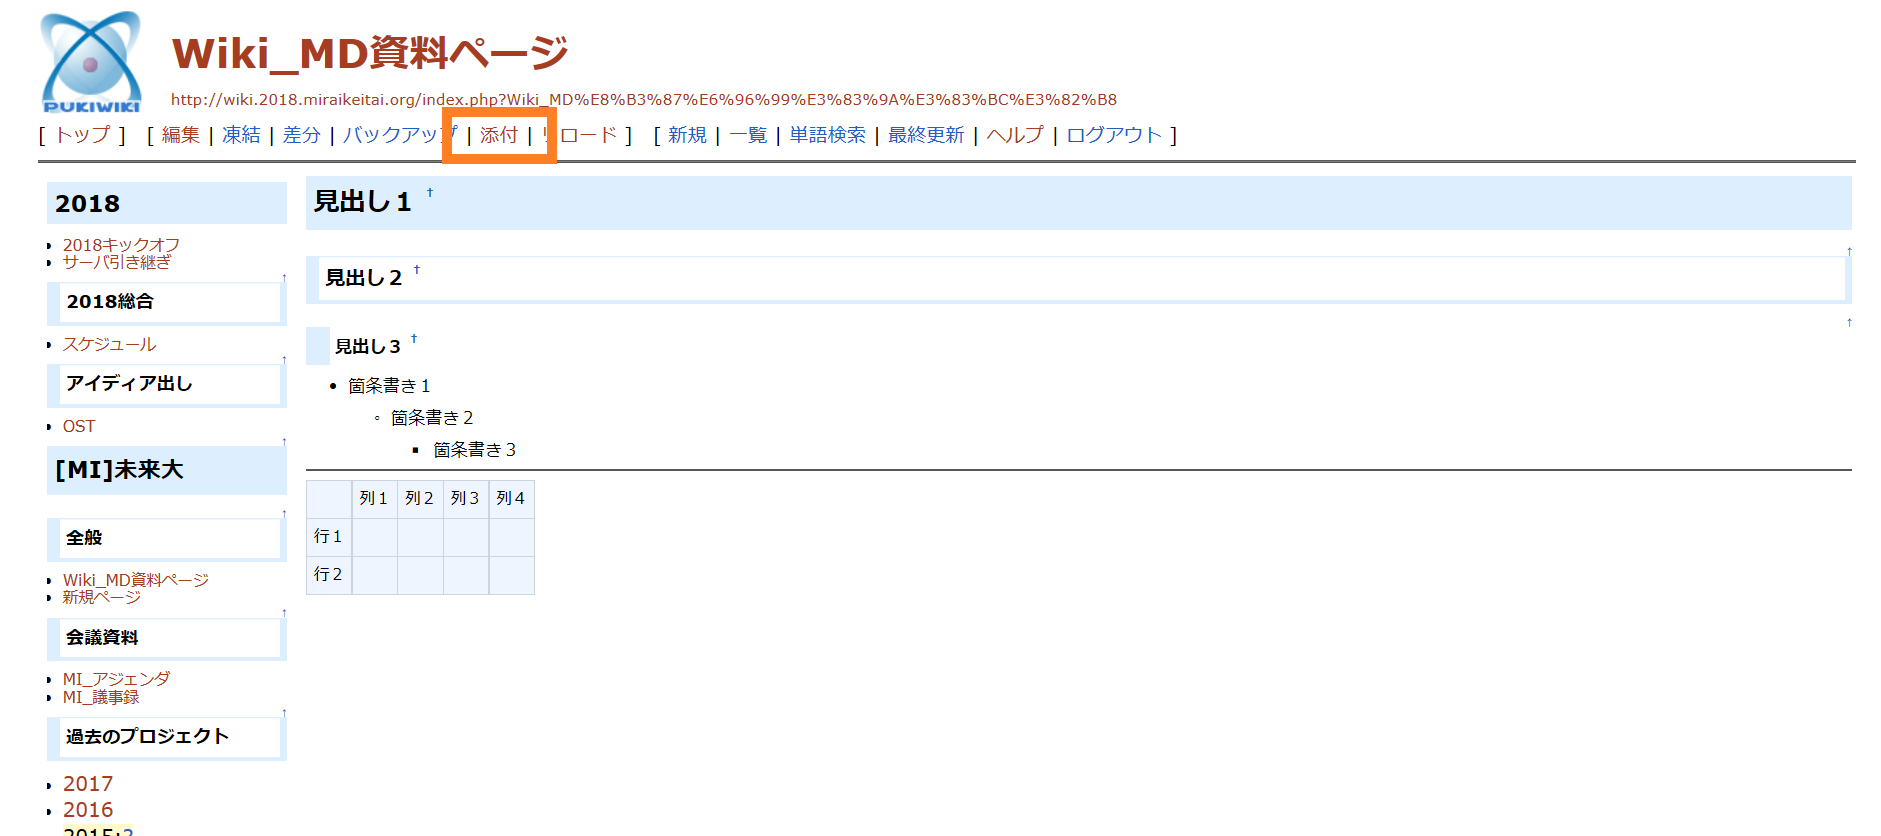
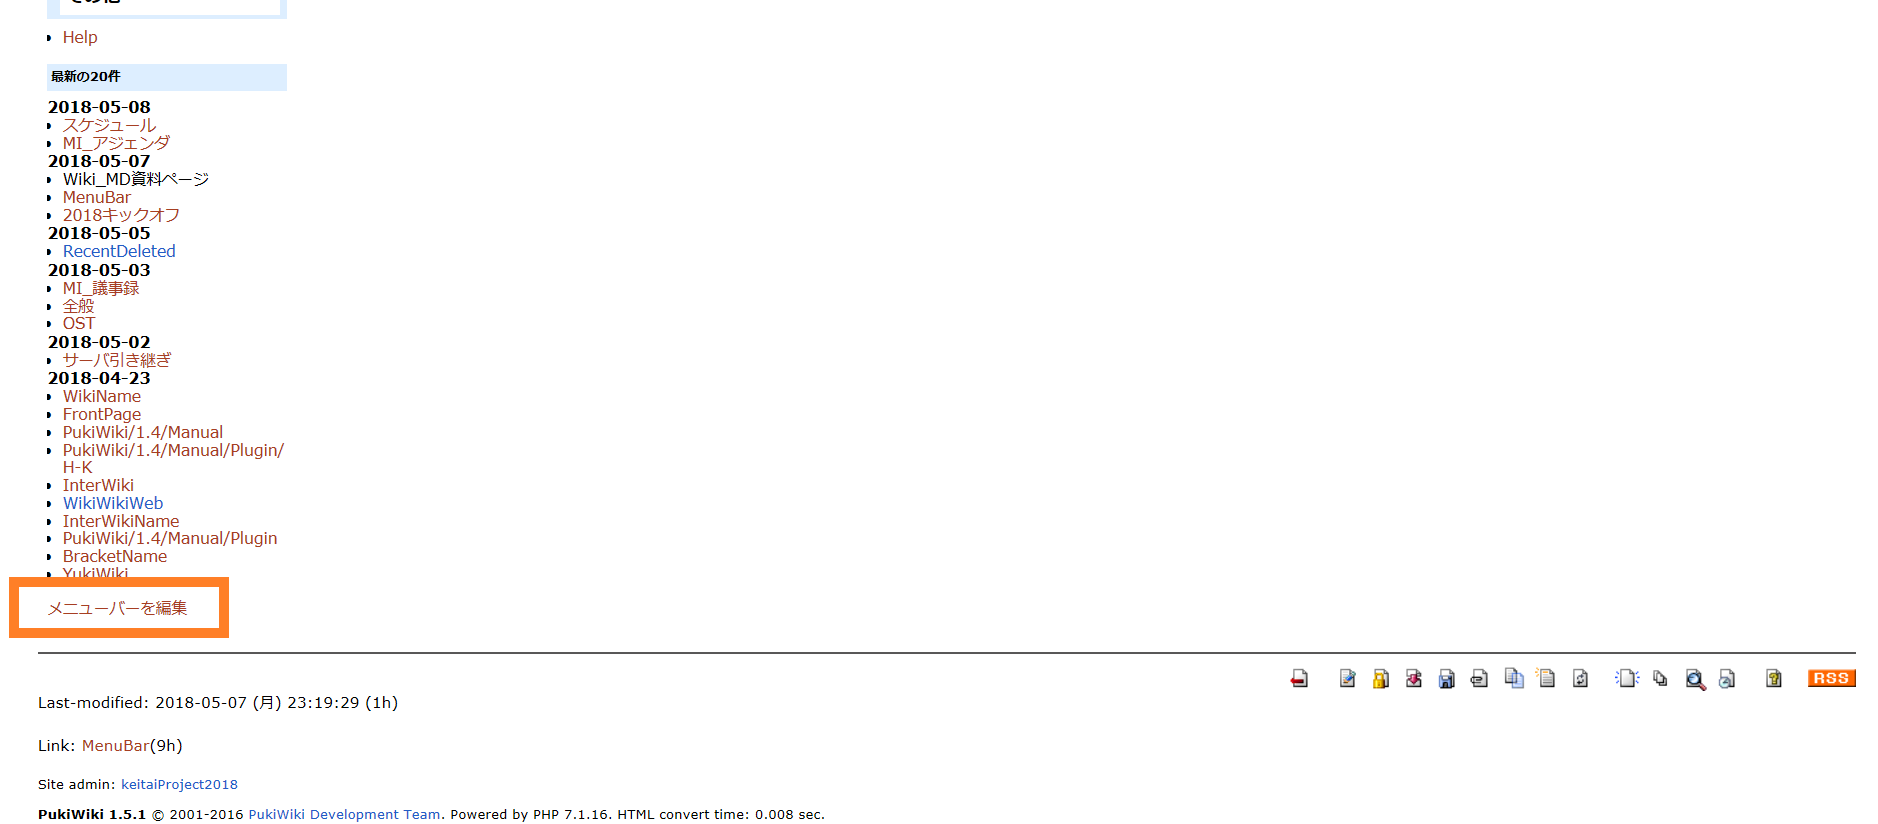
make ver1.1

Changed region(s): [[0.0, 0.0, 0.9883, 1.0], [0.6794, 0.7888, 0.9883, 0.8495]]

diff --git a/PukiWiki_Turorial2018.md b/PukiWiki_Turorial2018.md
@@ -45,8 +45,13 @@
 * 作成した新規ページ（仮）の横に?マークがつくので、そこをクリックすると新規ページの編集画面に移動し、新規ページが見れるようになる
 
   ![img](img9.png)
+* ?マークが消えて、新規ページが作成された
+
+  ![img](img10.png)
 #### 2-2.ページの削除
-* ページを削除したいときは、「編集」をクリックし、編集画面に書かれている文字を全部削除する
+* ページを削除したいときは、「編集」をクリックし、編集画面に書かれている文字を全部消す
+* その後、「メニューバーを編集」をクリックし、削除したページの部分を消す
+  * 上の手順は逆でもできます
 
 ## これで最低限の使い方は説明しました。あとは自分で使って覚えましょう！！
   
